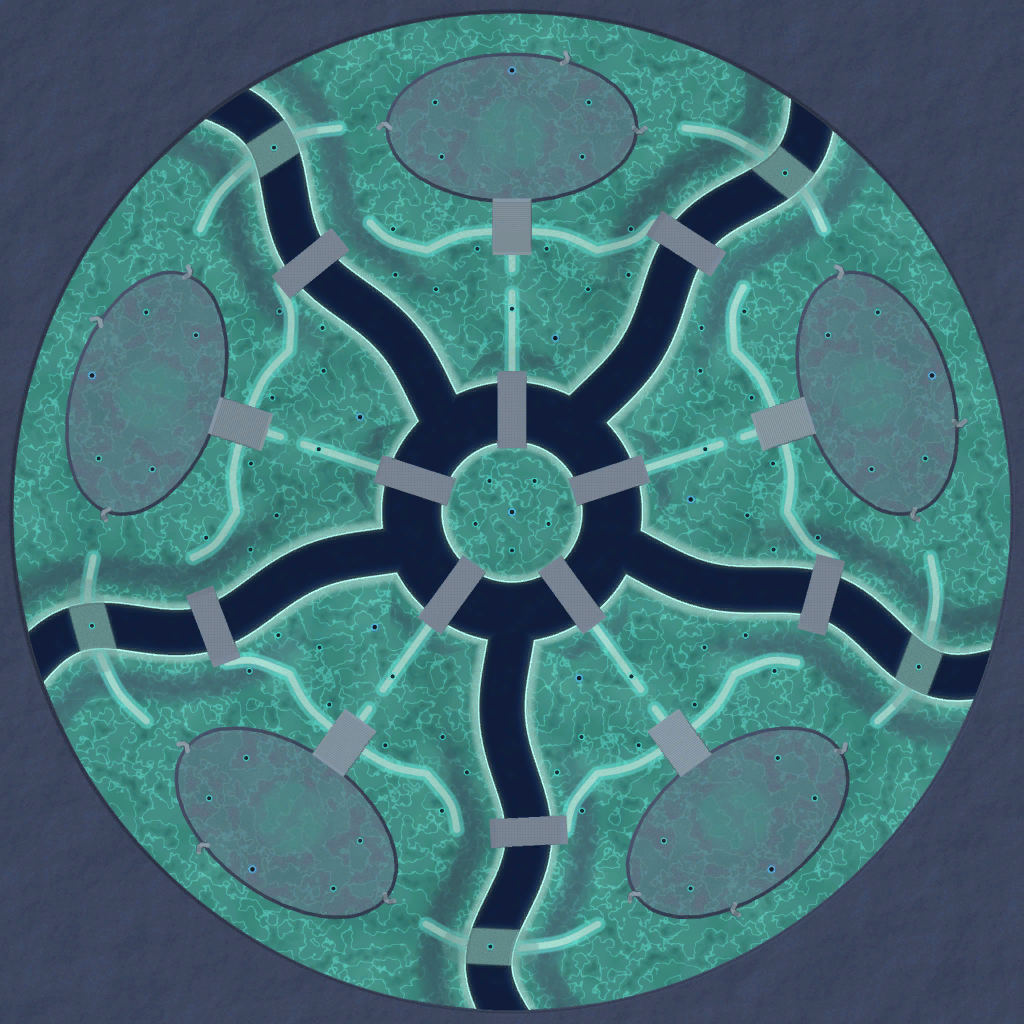
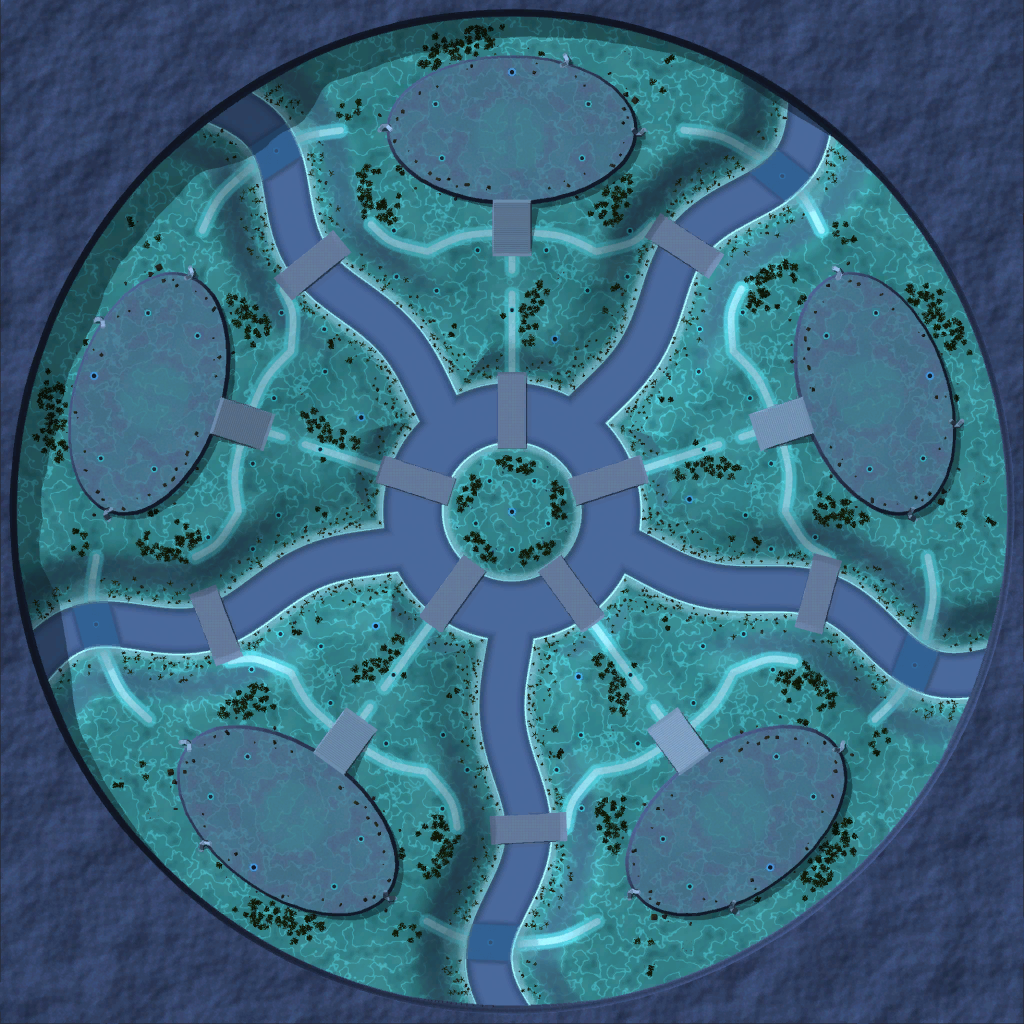
Five Rivers and the king maps: minimaps and lobby pictures from a straight-down 3D render
Each map's minimap is now the map seen from above in 3D, heights and features
included, as Starfall Marsh's is (render3d, Starfall minimap/setminimap, pack,
install), with the camera at 5.08 map-widths and an 8192 render: at 1.27 the
low ground and lakes at these maps' high edges let the background show (up to
12 px in 1024 on Corner Fortresses). Each archive still differs from its release
only in set.lua and the SMF's minimap bytes; the checks are byte-identical.
Notes and PLAN.md step 48 say so. Not yet republished.

diff --git a/PLAN.md b/PLAN.md
@@ -34,7 +34,7 @@ Test map: `acidicquarry_5.17.sd7`. **Never modify this file.** All work happens 
 | 21. Ramp tool | ✅ Done 2026-10-15 | 181/181 tests pass (with who-can-climb: BAR's movement classes and the engine's slope rule, checked against slope-map cells of built ramps, including where a ramp meets the ground); a ramp is a straight slope between its two heights (exact well inside it), every vertex beyond its edge is untouched, edge vertices lie between the old ground and the ramp; a ramp at 30° runs along its own axis; auto heights are the ground at the ends; the auto edge grows with the height step; the texture and splat map at each end match the ground beyond it, nothing past the fill's feather changes, and without fill only the heights change; bad ramps are refused; it works on the synthetic map without a splat map; undo is exact and it replays from the journal; editor self-test 121/121 (place, stretch by an end handle, widen by the side handle, move, turn with E, a cut-off drag changes nothing, the heights follow the ground, Apply ramp is one step halfway down at its middle, undo removes it, another tool hides it) |
 | 22. Passability in the 3D view | ✅ Done 2026-10-15 | 187/187 tests pass; hovercraft, vehicles and bots: every square agrees with the engine's rule (hovers on water whatever the slope; 33°, 27°, 54°; land units stop 20 deep); the sea-level preview and edits update it; the 3D tint is exact; editor self-test 126/126 |
 | 23. Ramp look: rock to dirt, rough sides | ✅ Done 2026-10-15 | 192/192 tests pass; rough sides stay between the old ground and the ramp with smooth ends; rock and dirt colours from the map's own cliffs and banks (only colour taken, the ground's own detail kept); the same op gives the same bytes; undo exact; editor self-test 130/130 |
-| 48. Feature headings fixed on Five Rivers and the three king maps | ✅ Done 2026-10-23, not yet on the releases | Step 47's test map showed that MapTool's `item-add` heading is in engine units (65536 a turn, 0 facing south), but Five Rivers' and the king maps' converters (`Place.Ops`) passed degrees. So on all four released maps every feature faces within 2° of south: ruins line up, trucks stand across the roads, and the turned parts' copies aren't turned. The converters' degrees also run the other way from the engine's: clockwise from north, as `Design.Turn` turns the parts and a road's bearing is worked out, where the engine's run from south towards east. So both converters now write `round((180 − degrees) × 65536 / 360)`, wrapped to 0-65535 (`Place.Heading`: MapEditSession.AddItem's rounding, after turning the frame round). The units alone would have turned each part's copies the wrong way and left diagonal roads' trucks across them. A render then showed that Industrial Revolution's truck models are long along x, not z, so Corner Fortresses' trucks are turned a quarter more than their road. All four rebuilt (Five Rivers 107 s, the king maps about 50-70 s each, plus MapTool's edit): each archive differs from its release only in `mapconfig/featureplacer/set.lua` (`MapTool compare`); each `run.txt` is the same line for line but for the headings; every copy faces its original turned with its part (within a unit); the facings spread evenly (Five Rivers 618/637/629/631 south/east/north/west, Star Fort 166/167/167/165, Edge Keeps 633 and Corner Fortresses 214 each way). The checks come out byte for byte as before: 62, 41, 30 and 29, all passed. The king maps' checks take each blocking feature's footprint as a square, the same whichever way it faces, so how BAR turns a wreck's real footprint is still to try in game. `info.txt`, `metal.txt` and the lobby pictures are unchanged; the pictures with features in them were drawn again with their first cameras, plus Corner Fortresses' `3d_trucks.png` (trucks along a north-south road that they stood across before). Each map's `CHECKLIST.md` and `release_notes.md`, both `RELEASE.md` files (the king maps' no longer claims that a rebuild of Star Fort matches its release byte for byte) and both converter READMEs say so. Not yet on the releases: `five_rivers.cmd publish` and `king_maps.cmd publish <map>` replace the files there, at your go-ahead. Not tried in BAR |
+| 48. Feature headings fixed on Five Rivers and the three king maps | ✅ Done 2026-10-23, not yet on the releases | Step 47's test map showed that MapTool's `item-add` heading is in engine units (65536 a turn, 0 facing south), but Five Rivers' and the king maps' converters (`Place.Ops`) passed degrees. So on all four released maps every feature faces within 2° of south: ruins line up, trucks stand across the roads, and the turned parts' copies aren't turned. The converters' degrees also run the other way from the engine's: clockwise from north, as `Design.Turn` turns the parts and a road's bearing is worked out, where the engine's run from south towards east. So both converters now write `round((180 − degrees) × 65536 / 360)`, wrapped to 0-65535 (`Place.Heading`: MapEditSession.AddItem's rounding, after turning the frame round). The units alone would have turned each part's copies the wrong way and left diagonal roads' trucks across them. A render then showed that Industrial Revolution's truck models are long along x, not z, so Corner Fortresses' trucks are turned a quarter more than their road. All four rebuilt (Five Rivers 107 s, the king maps about 50-70 s each, plus MapTool's edit): each archive differs from its release only in `mapconfig/featureplacer/set.lua` and, after the minimap below, the SMF's minimap bytes (`MapTool compare`, and the SMFs byte by byte); each `run.txt` is the same line for line but for the headings; every copy faces its original turned with its part (within a unit); the facings spread evenly (Five Rivers 618/637/629/631 south/east/north/west, Star Fort 166/167/167/165, Edge Keeps 633 and Corner Fortresses 214 each way). The checks come out byte for byte as before: 62, 41, 30 and 29, all passed. The king maps' checks take each blocking feature's footprint as a square, the same whichever way it faces, so how BAR turns a wreck's real footprint is still to try in game. `info.txt` and `metal.txt` are unchanged; the pictures with features in them were drawn again with their first cameras, plus Corner Fortresses' `3d_trucks.png` (trucks along a north-south road that they stood across before). Then, at your new requirement for every release, each map's minimap (and the lobby picture `MapTool install` draws from it) became the map seen straight down in 3D, with heights and features. It's made as Starfall Marsh's is, but with the camera four times as far up (5.08 map-widths, an 8192 render). At Starfall's 1.27, ground lower than these maps' high edges was drawn inward of them, and the background showed along the edges: up to 5 pixels in 1024 on Edge Keeps and 12 on Corner Fortresses. Now there's at most a hairline, and the checks still come out byte for byte. Each map's `CHECKLIST.md` and `release_notes.md`, both `RELEASE.md` files (the king maps' no longer claims that a rebuild of Star Fort matches its release byte for byte) and both converter READMEs say so. Not yet on the releases: `five_rivers.cmd publish` and `king_maps.cmd publish <map>` replace the files there, at your go-ahead. Not tried in BAR |
 | 47. Starfall Marsh: a 2v2 crash-site map, its ship and wreckage modelled here | ✅ Done 2026-10-23, released | At your request ("a 2v2 map that is a giant space shit crashed into the jungle, a huge pushed up creator dirt mound where the front end is buried and lost, the back end mostly intack but witch wrechage spread aross the map … 4 mex per starting area and a few near the wreackage … jungle vibes cross a marsh … build and color detailed feature component … style them like transformers space craft"). `out/step47-starfall-marsh/`: 16 × 16, north against south, mirrored across the middle line where the ship lies. A new converter (`converter/`) makes the terrain, texture, detail maps and sky and, for the first time, the map's own 3D models: a mesh builder on MapCore's S3O writer (every face tiled so atlas cells repeat without wrapping; moss on faces turned up, earth below a dirt line, plants not counted in the footprint) and one painted 2048 atlas (gunmetal plating, faded crimson armour with brass chevrons, brass trim, scorched metal, vents, windows, engine bells, girders, cyan seams through the glow channel, an original crest, moss, earth, vines, reeds; no franchise marks). Proved first on a flat test map (a test block with an arrow, the atlas on a board): textures the right way up, scale, and what a heading means. That showed MapTool's `item-add` heading is in engine units (65536 a turn), not degrees: the four released maps' converters passed degrees, so their features are all turned at most 2° (fixed in step 48). The ship: engines (six bells, two pods, fins), aft hull with its bridge tower and crest, two torn ends (decks, ribs, cables, the reactor's glow), the fore hull pitched nose-down into the mound, the prow blade on its crest: indestructible, walling the halves apart, overgrown with vines, ferns and saplings. 254 wreckage pieces in 15 kinds (each with a mirror-image twin for the south), heaviest at the crash site, small scraps near the bases, 7,190 metal a team to reclaim. Terrain: a jungle floor, the flooded furrow (wadeable) with berms, marsh streams, ragged pools and puddled mud, and a 520-high mound of pushed-up dirt (a steep west face for bots, gullies, a graded track for vehicles, dirt spilled over the buried nose). Metal: four spots at each start (2.0) and six on the wreck (2.8); two geothermal vents. Jungle: oaks, kapok, banyans, palms, mangroves, reeds, ferns from All That Simmers (its unused banyan and mangrove models defined here); 6,076 features. 14 checks on the built map's heights round every blocking feature's footprint pass (all starts and spots reached; each of the three lanes alone lets vehicles and bots cross; with all three shut the ship walls the halves off; the five hull sections, which butt together uncapped, all sit at one height on a dead-level floor; spots clear and level; halves alike to 0.00). Built in 46 s plus MapTool's edit (about a minute). Not tried in BAR. `CHECKLIST.md` has the layout, the models, the checks and what was made better on the way. Released at your go-ahead as `starfall-marsh-1.0` here and in BarMaps ([download](https://github.com/danielkopko/BarMaps/releases/download/starfall-marsh-1.0/starfall_marsh_1.0.sd7)) by `starfall_marsh.cmd publish`, with BarMaps' README section and lobby picture |
 | 46. King maps: Star Fort (K6), Edge Keeps (K4) and Corner Fortresses (K3) built and released | ✅ Done 2026-10-22 | At your request ("now run the end to end process for K6 and K4 and K3, do 1 at a time, and push as a release to the BarMaps repo for each map … no doors for the moment, walls are terrain, kings areas elivated with both ramp for full access and size zig zags for bot access. add geo vents and rocks/tree features making maps look like real locations"). The three drawings reworked first (`out/koth-maps/make_kings_maps.py`): no doors, ramparts as terrain, every king's ground raised, a ramp and bots-only zigzags for each king, geothermal vents. One converter for all three, grown from Five Rivers' (`out/step46-king-maps/converter/`, `KingMaps build` and `check`): the parts are turned, not mirrored, with each part's noise blended into the next near the lines between them, so they're alike without a seam; ramparts 90 high and flat-topped, towers 110, 12° ramps, 38° zigzag flights cut through the ramparts, bots-only passes over ridges (the ground lowered along the pass, at most 60 above the higher side and 38° anywhere: a straight climb up the cliff face failed the checks first); a look for each planet (Dune, Heath, Forge) painting the ground and choosing plants, rocks and props. **Star Fort 1.0** (`out/step46-king-maps/star_fort/`): 28 × 28, five kings on the bastions of one star fort round a spire, 20 players; 41 access checks pass on the built map's own heights, the fifths match (median 0.00, 99% within 1.2); 70 metal spots (27.2 metal/s a team), 10 vents, 665 palms, ferns, rocks and wrecks; built in 54 s plus MapTool's edit. Released as `star-fort-1.0` here and in BarMaps ([download](https://github.com/danielkopko/BarMaps/releases/download/star-fort-1.0/star_fort_1.0.sd7)), with BarMaps' README section and lobby picture. **Edge Keeps 1.0** (`out/step46-king-maps/edge_keeps/`): 24 × 24, four kings on cliff keeps at the middle of each edge, a loch with an isle in the middle, 16 players. Its first build passed every check but looked flat and plain (blotchy heather, pines only in three thin rows), so the Heath look was redone before release: broad rolling hills (±40, roads and bases follow them; `Look.Swell`, never dipping into puddles), heather on the rises and moor grass in the hollows, small peat hags, granite-sett causeways, pinewoods, birch copses, tors on the crests, scree and boulders. 30 access checks pass on the built map's own heights, the quarters match (median 0.00, 99% within 0.2); 56 metal spots (28.4 metal/s a team), 9 vents, 2,532 trees, bracken, rocks and cairns. Released as `edge-keeps-1.0` here and in BarMaps ([download](https://github.com/danielkopko/BarMaps/releases/download/edge-keeps-1.0/edge_keeps_1.0.sd7)), with BarMaps' README section and lobby picture. **Corner Fortresses 1.0** (`out/step46-king-maps/corner_fortresses/`): 24 × 24, four kings in raised corner fortresses behind ramparts, all twelve peasants round the market in the middle, acid lakes between, 16 players. Its first build passed every check but looked wrong: Industrial Revolution's pipe models are runs up to 2000 long and 250 tall and looped over the ramparts, the ground was one tiled floor, the roads black strokes, the market a red checkerboard, the mushrooms 8 across. Redone before release: no pipes or mushrooms; an estate's paved lots between waste ground gone to weeds, worn asphalt, a brick market; ruined works of BAR's building wrecks (factories and moho mines with storage tanks and metal makers) with rubble, container yards, trucks, weeds. 29 access checks pass on the built map's own heights, the quarters match exactly; 64 metal spots (32.8 metal/s a team), 9 vents, 856 features, about 9,100 metal a team to reclaim (noted as a first guess, with the acid's damage). Released as `corner-fortresses-1.0` here and in BarMaps ([download](https://github.com/danielkopko/BarMaps/releases/download/corner-fortresses-1.0/corner_fortresses_1.0.sd7)), with BarMaps' README section and lobby picture. The drawings' planet notes for K3 and K4 (`planets.py`) were brought into line with what was built. Afterwards the access checks were extended to the features (`KingMaps check … run.txt`: each blocking feature's footprint and 8 more round it, in the checks that units get through) and re-run on all three: all pass, the features blocking 0.6%, 1.9% and 2.5% of the ground; and a rebuild of Star Fort with the final converter gave the released files byte for byte (until step 48's headings fix, which changes `set.lua`). `out/step46-king-maps/RELEASE.md` records the conversions and releases. `out/step46-king-maps/king_maps.cmd publish <map>` commits, pushes and releases any of the three; `install <map>` copies one into BAR. Not tried in BAR |
 | 45. Five Rivers released: GitHub releases here and in BarMaps | ✅ Done 2026-10-22 | At your request ("split the map and provide a simple script to run to repackage it and push to git", then "make it so i can grab it all in 1 go without having to grab the entire repository", then "release to the BarMaps repo as well"). The 112 MB `.sd7` is over GitHub's 100 MB a file, so it was first committed in three parts (45, 45, 16.6 MB) with its SHA-256 and a join script (split and join checked byte for byte; 09d9e0e), then replaced by releases (8659a32): `five-rivers-1.0` in this repository (private) and in danielkopko/BarMaps (public: [download](https://github.com/danielkopko/BarMaps/releases/download/five-rivers-1.0/five_rivers_1.0.sd7)), each with the map and its lobby picture and `release_notes.md`; BarMaps' README has a Five Rivers section beside Simmering Ravine's and `LuaMenu/Images/Minimaps/Five_Rivers_1.0.jpg`. `out/step44-five-rivers/five_rivers.cmd publish` commits and pushes the notes and puts the map on both releases (replacing their files when they exist); `install` copies it into BAR. Pushing as danielkopko: on this PC git and the GitHub CLI default to the work account, which can't see the private repository, so the script takes danielkopko's sign-in from the CLI for that run only. `out/step44-five-rivers/RELEASE.md` records the conversion and the release, and how to release a new version |

diff --git a/out/step46-king-maps/RELEASE.md b/out/step46-king-maps/RELEASE.md
@@ -37,7 +37,7 @@ The steps are in `converter/README.md`. In short, for each map:
    - MapTool's `run.txt`.
 3. `MapTool edit … @run.txt` adds the metal, vents and features.
 4. `KingMaps check <geometry> <map> <run.txt>` runs the access checks again. It reads the built map's own heights, and goes round each blocking feature's footprint in the checks that units get through. It also compares the parts.
-5. `MapTool install` into a scratch maps folder makes the lobby picture.
+5. `MapTool install` into a scratch maps folder makes the lobby picture. Since 2026-10-23 the minimap it's drawn from is first made from a straight-down 3D render (each map's `CHECKLIST.md`, *The minimap and lobby picture*).
 6. The pictures (`MapTool render` and `render3d`), `info.txt` and `metal.txt` are written beside the map.
 
 All three passed their checks first time (41, 30 and 29). Passing them wasn't enough, though: the renders were looked at too, and two of the three were redone before release.
@@ -49,7 +49,7 @@ All three passed their checks first time (41, 30 and 29). Passing them wasn't en
   - The Forge look now has an estate's paved lots on waste ground, worn asphalt and brick paving. BAR's building wrecks make ruined works, and the pipes and mushrooms are gone.
 - **Star Fort:** the first pass over each ridge climbed the cliff face, so bots couldn't cross. The pass is now the ground lowered along its line, at most 60 above the realms and 38° anywhere.
 
-The later changes (the swell, the new Heath and Forge looks, a feature's room by kind) left Star Fort's build as it was released: a rebuild after them gave the same SMF, SMT, detail maps, `mapinfo.lua` and `run.txt`, byte for byte. That stopped being true with the headings fix (below). A rebuild now differs from the release in `run.txt`'s headings, and so in the archive's `mapconfig/featureplacer/set.lua`, and in nothing else.
+The later changes (the swell, the new Heath and Forge looks, a feature's room by kind) left Star Fort's build as it was released: a rebuild after them gave the same SMF, SMT, detail maps, `mapinfo.lua` and `run.txt`, byte for byte. That stopped being true with the headings fix (below). A rebuild now differs from the release in `run.txt`'s headings, and so in the archive's `mapconfig/featureplacer/set.lua`, and in nothing else. The 3D minimap, made after the build, then changes the SMF's minimap bytes.
 
 After all three were out, the checks were extended to the features. Re-run on all three maps, every check passed: the features block 0.6%, 1.9% and 2.5% of the ground, and none cuts off a ramp, zigzag, pass or start.
 
@@ -59,9 +59,10 @@ After all three were out, the checks were extended to the features. Re-run on al
 
 - **Units and frame:** the converter's degrees run clockwise from north, the way `Design.Turn` turns the parts and a road's bearing is worked out. The engine's run the other way from south (16384 is east). So `Place.Heading` writes `round((180 − degrees) × 65536 / 360)`, wrapped to 0-65535: MapEditSession.AddItem's rounding, after turning the frame round. The units alone would have left each part's copies turned the wrong way and diagonal roads' trucks across them.
 - **Trucks:** the minitrucks' models are long along x, not z, so each is turned a quarter more than its road.
-- **Rebuilt, all three:** each archive differs from its release only in `mapconfig/featureplacer/set.lua` (`MapTool compare`), and each `run.txt` is the same line for line, but for the headings. Every copy faces its original turned with its part (to within a unit for Star Fort's fifths, exactly for the quarters). The facings spread evenly.
-- **Unchanged:** `check.txt` (41, 30 and 29 checks, all passed), `info.txt`, `metal.txt` and the lobby pictures. The checks take each blocking feature's footprint as a square round it, the same whichever way it faces. How BAR turns a wreck's real footprint with its facing is still to try in game.
+- **Rebuilt, all three:** each archive differs from its release only in `mapconfig/featureplacer/set.lua` and in the SMF's minimap bytes (`MapTool compare`, and the SMF compared byte by byte), and each `run.txt` is the same line for line, but for the headings. Every copy faces its original turned with its part (to within a unit for Star Fort's fifths, exactly for the quarters). The facings spread evenly.
+- **Unchanged:** `check.txt` (41, 30 and 29 checks, all passed), `info.txt` and `metal.txt`. The checks take each blocking feature's footprint as a square round it, the same whichever way it faces. How BAR turns a wreck's real footprint with its facing is still to try in game.
 - **Pictures:** the 3D pictures with features in them were drawn again with their first cameras. Corner Fortresses has a new one, `3d_trucks.png`.
+- **Minimaps and lobby pictures:** at your new requirement for every release, each map's minimap is now the map seen straight down in 3D, with heights and features. The lobby picture follows it. They're made as Starfall Marsh's are, with the camera four times as far up (5.08 map-widths, an 8192 render), so the edges' high ground and lakes leave no background showing (each map's `CHECKLIST.md`, *The minimap and lobby picture*).
 
 The maps beside the notes are the rebuilt ones. The releases still have the first builds until `king_maps.cmd publish <map>` replaces their files.
 

diff --git a/out/step46-king-maps/corner_fortresses/CHECKLIST.md b/out/step46-king-maps/corner_fortresses/CHECKLIST.md
@@ -6,7 +6,7 @@
 
 **Download:** one file, [corner_fortresses_1.0.sd7](https://github.com/danielkopko/BarMaps/releases/download/corner-fortresses-1.0/corner_fortresses_1.0.sd7), from the public BarMaps release [corner-fortresses-1.0](https://github.com/danielkopko/BarMaps/releases/tag/corner-fortresses-1.0), with its lobby picture `Corner_Fortresses_1.0.jpg`. The same files are on [this repository's release](https://github.com/danielkopko/beyondallreasonmapeditor/releases/tag/corner-fortresses-1.0) (signed in as danielkopko). After rebuilding, `../king_maps.cmd publish corner_fortresses -Message "..."` pushes the notes and replaces both releases' files. `../king_maps.cmd install corner_fortresses` copies the map into BAR.
 
-**Rebuilt 2026-10-23, not yet on the releases:** the map beside this file has its features turned the way the converter meant (*Headings*, below). The releases still have the first build, in which every feature faces south. `../king_maps.cmd publish corner_fortresses` replaces them.
+**Rebuilt 2026-10-23, not yet on the releases:** the map beside this file has its features turned the way the converter meant (*Headings*, below), and a minimap and lobby picture seen from above in 3D (*The minimap and lobby picture*). The releases still have the first build, in which every feature faces south and the minimap is the flat texture. `../king_maps.cmd publish corner_fortresses` replaces them.
 
 ## The layout
 
@@ -76,9 +76,17 @@ Also checked:
   - The first build wrote each feature's heading in degrees. MapTool's `item-add` takes the engine's units: 65536 to a turn, with 0 facing south. So all 856 features faced within 2° of south. The ruins all lined up, the trucks stood across any road that didn't run east-west, and the other quarters' copies weren't turned.
   - The converter now writes `round((180 − degrees) × 65536 / 360)`, wrapped to 0-65535. Its degrees run clockwise from north, the way it turns the parts.
   - The trucks' models are long along x, not z (the minitrucks 67 × 57, the crane truck 138 × 78). So a truck parked by a road is turned a quarter more than the road, to lie along it. `3d_trucks.png` shows a north-south road: before the fix, its trucks stood across it.
-  - The rebuild differs from the release only in `mapconfig/featureplacer/set.lua` (`MapTool compare`). Its `run.txt` is the same line for line, but for the headings. Each copy faces its original turned exactly a quarter with its part, so the facings are even: 214 each way.
+  - The rebuild differs from the release only in `mapconfig/featureplacer/set.lua` and in the SMF's minimap bytes (`MapTool compare`, and the SMF compared byte by byte). Its `run.txt` is the same line for line, but for the headings. Each copy faces its original turned exactly a quarter with its part, so the facings are even: 214 each way.
   - The 29 checks come out exactly as before (`check.txt` is unchanged). They take each blocking feature's footprint as a square round it, whichever way it faces (128 across for a factory wreck). How BAR turns a wreck's real footprint with its facing is still to try in game.
-  - `info.txt`, `metal.txt` and the lobby picture are the same as before. The 3D pictures were drawn again with the same cameras.
+  - `info.txt` and `metal.txt` are the same as before. The 3D pictures were drawn again with the same cameras.
+
+## The minimap and lobby picture
+
+Since 2026-10-23, as for every map now, the minimap is the map seen straight down in 3D, with heights, light and features, not the flat texture. That covers the in-game minimap and the lobby's picture, which `MapTool install` draws from it. It's made as Starfall Marsh's is:
+1. `MapTool render3d corner_fortresses_1.0.sd7 top.png --size 8192x8192 --camera 6144,6144,0,89.9,62423 --models`. The camera is 5.08 map-widths up, four times Starfall Marsh's 1.27, with a render four times as wide, so the map still covers about 1950 pixels of it. At 1.27 widths, ground lower than the map's high edges was drawn inward of them, and the render's background showed through along the edges. Edge Keeps had a sliver of up to 5 pixels in 1024 and Corner Fortresses up to 12, round its edge lakes. Four times as far away leaves at most a hairline, and features and high ground sit a quarter as far out of place.
+2. `Starfall minimap top.png minimap.png 1024` (`out/step47-starfall-marsh/converter`) cuts the map out of the render and scales it.
+3. `Starfall setminimap <extracted map> minimap.png` puts it into the SMF; `MapTool pack` packs the map again.
+4. `MapTool install` into a scratch maps folder gives the lobby picture (`bar-data/`).
 
 ## Pictures
 

diff --git a/out/step44-five-rivers/CHECKLIST.md b/out/step44-five-rivers/CHECKLIST.md
@@ -6,7 +6,7 @@
 
 **Download:** one file, [five_rivers_1.0.sd7](https://github.com/danielkopko/BarMaps/releases/download/five-rivers-1.0/five_rivers_1.0.sd7), from the public BarMaps release [five-rivers-1.0](https://github.com/danielkopko/BarMaps/releases/tag/five-rivers-1.0), with its lobby picture `Five_Rivers_1.0.jpg`; the same files are on [this repository's release](https://github.com/danielkopko/beyondallreasonmapeditor/releases/tag/five-rivers-1.0) (signed in as danielkopko). After rebuilding the map, `five_rivers.cmd publish -Message "..."` pushes the notes and replaces both releases' files; `five_rivers.cmd install` copies the map beside it into BAR. `RELEASE.md` has how it was converted and released.
 
-**Rebuilt 2026-10-23, not yet on the releases:** the map beside this file has its features turned the way the converter meant (*Headings*, below). The releases still have the first build, in which every feature faces south. `five_rivers.cmd publish` replaces them.
+**Rebuilt 2026-10-23, not yet on the releases:** the map beside this file has its features turned the way the converter meant (*Headings*, below), and a minimap and lobby picture seen from above in 3D (*The minimap and lobby picture*). The releases still have the first build, in which every feature faces south and the minimap is the flat texture. `five_rivers.cmd publish` replaces them.
 
 Install by hand: copy `five_rivers_1.0.sd7` into BAR's `maps` folder, and `bar-data/LuaMenu` (beside this file) into BAR's data folder (the folder that holds `maps`, usually `%LOCALAPPDATA%\Programs\Beyond-All-Reason\data`) for the lobby picture; or `MapTool install five_rivers_1.0.sd7` on a machine with BAR.
 
@@ -54,8 +54,16 @@ Also checked:
 - **Headings (fixed after release, 2026-10-23):**
   - The first build wrote each feature's heading in degrees. MapTool's `item-add` takes the engine's units: 65536 to a turn, with 0 facing south. So all 2,515 features faced within 2° of south, and the other fifths' copies weren't turned. Step 47's test map showed it.
   - The converter now converts its headings (degrees clockwise from north, the way it turns the fifths) to the engine's units: `round((180 − degrees) × 65536 / 360)`, wrapped to 0-65535.
-  - The rebuild differs from the release only in `mapconfig/featureplacer/set.lua` (`MapTool compare`). Its `run.txt` is the same line for line, but for the headings. Each copy faces its original turned with its fifth, to within a unit. The facings spread evenly: 618 south, 637 east, 629 north, 631 west.
-  - `check.txt`, `info.txt`, `metal.txt` and the lobby picture are the same as before. The pictures with features in them were drawn again.
+  - The rebuild differs from the release only in `mapconfig/featureplacer/set.lua` and in the SMF's minimap bytes (`MapTool compare`, and the SMF compared byte by byte). Its `run.txt` is the same line for line, but for the headings. Each copy faces its original turned with its fifth, to within a unit. The facings spread evenly: 618 south, 637 east, 629 north, 631 west.
+  - `check.txt`, `info.txt` and `metal.txt` are the same as before. The pictures with features in them were drawn again.
+
+## The minimap and lobby picture
+
+Since 2026-10-23, as for every map now, the minimap is the map seen straight down in 3D, with heights, light and features, not the flat texture. That covers the in-game minimap and the lobby's picture, which `MapTool install` draws from it. It's made as Starfall Marsh's is:
+1. `MapTool render3d five_rivers_1.0.sd7 top.png --size 8192x8192 --camera 7168,7168,0,89.9,72826 --models`. The camera is 5.08 map-widths up, four times Starfall Marsh's 1.27, with a render four times as wide, so the map still covers about 1950 pixels of it. At 1.27 widths, ground lower than the map's high edges was drawn inward of them, and the render's background showed through along the edges. Edge Keeps had a sliver of up to 5 pixels in 1024 and Corner Fortresses up to 12, round its edge lakes. Four times as far away leaves at most a hairline, and features and high ground sit a quarter as far out of place.
+2. `Starfall minimap top.png minimap.png 1024` (`out/step47-starfall-marsh/converter`) cuts the map out of the render and scales it.
+3. `Starfall setminimap <extracted map> minimap.png` puts it into the SMF; `MapTool pack` packs the map again.
+4. `MapTool install` into a scratch maps folder gives the lobby picture (`bar-data/`).
 
 ## Pictures
 

diff --git a/out/step46-king-maps/star_fort/CHECKLIST.md b/out/step46-king-maps/star_fort/CHECKLIST.md
@@ -6,7 +6,7 @@
 
 **Download:** one file, [star_fort_1.0.sd7](https://github.com/danielkopko/BarMaps/releases/download/star-fort-1.0/star_fort_1.0.sd7), from the public BarMaps release [star-fort-1.0](https://github.com/danielkopko/BarMaps/releases/tag/star-fort-1.0), with its lobby picture `Star_Fort_1.0.jpg`. The same files are on [this repository's release](https://github.com/danielkopko/beyondallreasonmapeditor/releases/tag/star-fort-1.0) (signed in as danielkopko). After rebuilding the map, `../king_maps.cmd publish star_fort -Message "..."` pushes the notes and replaces both releases' files. `../king_maps.cmd install star_fort` copies the map into BAR.
 
-**Rebuilt 2026-10-23, not yet on the releases:** the map beside this file has its features turned the way the converter meant (*Headings*, below). The releases still have the first build, in which every feature faces south. `../king_maps.cmd publish star_fort` replaces them.
+**Rebuilt 2026-10-23, not yet on the releases:** the map beside this file has its features turned the way the converter meant (*Headings*, below), and a minimap and lobby picture seen from above in 3D (*The minimap and lobby picture*). The releases still have the first build, in which every feature faces south and the minimap is the flat texture. `../king_maps.cmd publish star_fort` replaces them.
 
 ## The layout
 
@@ -67,9 +67,17 @@ Also checked:
 - **Headings (fixed after release, 2026-10-23):**
   - The first build wrote each feature's heading in degrees. MapTool's `item-add` takes the engine's units: 65536 to a turn, with 0 facing south. So all 665 features faced within 2° of south, and the other fifths' copies weren't turned.
   - The converter now writes `round((180 − degrees) × 65536 / 360)`, wrapped to 0-65535. Its degrees run clockwise from north, the way it turns the parts.
-  - The rebuild differs from the release only in `mapconfig/featureplacer/set.lua` (`MapTool compare`). Its `run.txt` is the same line for line, but for the headings. Each copy faces its original turned with its fifth, to within a unit. The facings spread evenly: 166 south, 167 east, 167 north, 165 west.
+  - The rebuild differs from the release only in `mapconfig/featureplacer/set.lua` and in the SMF's minimap bytes (`MapTool compare`, and the SMF compared byte by byte). Its `run.txt` is the same line for line, but for the headings. Each copy faces its original turned with its fifth, to within a unit. The facings spread evenly: 166 south, 167 east, 167 north, 165 west.
   - The 41 checks come out exactly as before (`check.txt` is unchanged). They take each blocking feature's footprint as a square round it, whichever way it faces. How BAR turns a wreck's real footprint with its facing is still to try in game.
-  - `info.txt`, `metal.txt` and the lobby picture are the same as before. The 3D pictures were drawn again with the same cameras.
+  - `info.txt` and `metal.txt` are the same as before. The 3D pictures were drawn again with the same cameras.
+
+## The minimap and lobby picture
+
+Since 2026-10-23, as for every map now, the minimap is the map seen straight down in 3D, with heights, light and features, not the flat texture. That covers the in-game minimap and the lobby's picture, which `MapTool install` draws from it. It's made as Starfall Marsh's is:
+1. `MapTool render3d star_fort_1.0.sd7 top.png --size 8192x8192 --camera 7168,7168,0,89.9,72826 --models`. The camera is 5.08 map-widths up, four times Starfall Marsh's 1.27, with a render four times as wide, so the map still covers about 1950 pixels of it. At 1.27 widths, ground lower than the map's high edges was drawn inward of them, and the render's background showed through along the edges. Edge Keeps had a sliver of up to 5 pixels in 1024 and Corner Fortresses up to 12, round its edge lakes. Four times as far away leaves at most a hairline, and features and high ground sit a quarter as far out of place.
+2. `Starfall minimap top.png minimap.png 1024` (`out/step47-starfall-marsh/converter`) cuts the map out of the render and scales it.
+3. `Starfall setminimap <extracted map> minimap.png` puts it into the SMF; `MapTool pack` packs the map again.
+4. `MapTool install` into a scratch maps folder gives the lobby picture (`bar-data/`).
 
 ## Pictures
 

diff --git a/out/step46-king-maps/edge_keeps/CHECKLIST.md b/out/step46-king-maps/edge_keeps/CHECKLIST.md
@@ -6,7 +6,7 @@
 
 **Download:** one file, [edge_keeps_1.0.sd7](https://github.com/danielkopko/BarMaps/releases/download/edge-keeps-1.0/edge_keeps_1.0.sd7), from the public BarMaps release [edge-keeps-1.0](https://github.com/danielkopko/BarMaps/releases/tag/edge-keeps-1.0), with its lobby picture `Edge_Keeps_1.0.jpg`. The same files are on [this repository's release](https://github.com/danielkopko/beyondallreasonmapeditor/releases/tag/edge-keeps-1.0) (signed in as danielkopko). After rebuilding, `../king_maps.cmd publish edge_keeps -Message "..."` pushes the notes and replaces both releases' files. `../king_maps.cmd install edge_keeps` copies the map into BAR.
 
-**Rebuilt 2026-10-23, not yet on the releases:** the map beside this file has its features turned the way the converter meant (*Headings*, below). The releases still have the first build, in which every feature faces south. `../king_maps.cmd publish edge_keeps` replaces them.
+**Rebuilt 2026-10-23, not yet on the releases:** the map beside this file has its features turned the way the converter meant (*Headings*, below), and a minimap and lobby picture seen from above in 3D (*The minimap and lobby picture*). The releases still have the first build, in which every feature faces south and the minimap is the flat texture. `../king_maps.cmd publish edge_keeps` replaces them.
 
 ## The layout
 
@@ -71,9 +71,17 @@ Also checked:
 - **Headings (fixed after release, 2026-10-23):**
   - The first build wrote each feature's heading in degrees. MapTool's `item-add` takes the engine's units: 65536 to a turn, with 0 facing south. So all 2,532 features faced within 2° of south, and the other quarters' copies weren't turned.
   - The converter now writes `round((180 − degrees) × 65536 / 360)`, wrapped to 0-65535. Its degrees run clockwise from north, the way it turns the parts.
-  - The rebuild differs from the release only in `mapconfig/featureplacer/set.lua` (`MapTool compare`). Its `run.txt` is the same line for line, but for the headings. Each copy faces its original turned exactly a quarter with its part, so the facings are even: 633 each way.
+  - The rebuild differs from the release only in `mapconfig/featureplacer/set.lua` and in the SMF's minimap bytes (`MapTool compare`, and the SMF compared byte by byte). Its `run.txt` is the same line for line, but for the headings. Each copy faces its original turned exactly a quarter with its part, so the facings are even: 633 each way.
   - The 30 checks come out exactly as before (`check.txt` is unchanged). They take each blocking feature's footprint as a square round it, whichever way it faces.
-  - `info.txt`, `metal.txt` and the lobby picture are the same as before. The 3D pictures were drawn again with the same cameras.
+  - `info.txt` and `metal.txt` are the same as before. The 3D pictures were drawn again with the same cameras.
+
+## The minimap and lobby picture
+
+Since 2026-10-23, as for every map now, the minimap is the map seen straight down in 3D, with heights, light and features, not the flat texture. That covers the in-game minimap and the lobby's picture, which `MapTool install` draws from it. It's made as Starfall Marsh's is:
+1. `MapTool render3d edge_keeps_1.0.sd7 top.png --size 8192x8192 --camera 6144,6144,0,89.9,62423 --models`. The camera is 5.08 map-widths up, four times Starfall Marsh's 1.27, with a render four times as wide, so the map still covers about 1950 pixels of it. At 1.27 widths, ground lower than the map's high edges was drawn inward of them, and the render's background showed through along the edges. Edge Keeps had a sliver of up to 5 pixels in 1024 and Corner Fortresses up to 12, round its edge lakes. Four times as far away leaves at most a hairline, and features and high ground sit a quarter as far out of place.
+2. `Starfall minimap top.png minimap.png 1024` (`out/step47-starfall-marsh/converter`) cuts the map out of the render and scales it.
+3. `Starfall setminimap <extracted map> minimap.png` puts it into the SMF; `MapTool pack` packs the map again.
+4. `MapTool install` into a scratch maps folder gives the lobby picture (`bar-data/`).
 
 ## Pictures
 

diff --git a/out/step44-five-rivers/RELEASE.md b/out/step44-five-rivers/RELEASE.md
@@ -26,7 +26,7 @@ The full steps are in `converter/README.md`; in short:
 7. **Fixed on the way:** the detail maps were first written the right way up (they must be stored upside down); MapTool's `--layer splat` and `--layer normals` renders caught it. The drawing's heights line was changed to match the build (the isle 60, not 200-230).
 8. **Pictures and reports:** `map_2d*.png`, `3d_*.png`, `info.txt`, `metal.txt`, `check.txt`; the lobby picture from `MapTool install` into a scratch maps folder (`bar-data/`).
 
-**Fixed after the release (2026-10-23): the features' headings.** `Place.Ops` wrote each heading in degrees, but MapTool's `item-add` takes the engine's units (65536 to a turn, 0 facing south). So in the released map every feature faces within 2° of south, and the other fifths' copies aren't turned. The converter now writes `round((180 − degrees) × 65536 / 360)`, wrapped to 0-65535. Its degrees run clockwise from north, as `Design.Turn` turns the fifths; the engine's run the other way from south. The rebuild differs from the release only in `mapconfig/featureplacer/set.lua`, and passes the same 62 checks (`CHECKLIST.md`, *Headings*). It goes out with `five_rivers.cmd publish`, which replaces the release's files.
+**Fixed after the release (2026-10-23): the features' headings.** `Place.Ops` wrote each heading in degrees, but MapTool's `item-add` takes the engine's units (65536 to a turn, 0 facing south). So in the released map every feature faces within 2° of south, and the other fifths' copies aren't turned. The converter now writes `round((180 − degrees) × 65536 / 360)`, wrapped to 0-65535. Its degrees run clockwise from north, as `Design.Turn` turns the fifths; the engine's run the other way from south. At the same time, at your new requirement for every release, the minimap and lobby picture became the map seen straight down in 3D, with heights and features (`CHECKLIST.md`, *The minimap and lobby picture*). The rebuild differs from the release only in `mapconfig/featureplacer/set.lua` and the SMF's minimap bytes, and passes the same 62 checks (`CHECKLIST.md`, *Headings*). It goes out with `five_rivers.cmd publish`, which replaces the release's files.
 
 ## The release
 

diff --git a/out/step46-king-maps/converter/README.md b/out/step46-king-maps/converter/README.md
@@ -15,7 +15,7 @@ How the king maps (`star_fort_1.0.sd7`, `edge_keeps_1.0.sd7`, `corner_fortresses
    - All That Simmers' own layout is left out: its SMF and SMT, its detail maps, its grass and feature list, its sunrise sky, two unused textures, and its map options.
 4. `MapTool edit <key>_1.0_stage.sd7 <key>_1.0.sd7 @run.txt`.
 5. `KingMaps check <geometry.json> <final map, extracted> <work>/run.txt`: the access checks again on the built map's own heights, the ones that units get through going round every blocking feature (its footprint and 8 more), and how alike the parts are.
-6. `MapTool install <key>_1.0.sd7 <scratch maps folder>`: the lobby picture, kept in `<key>/bar-data`.
+6. The minimap from a straight-down 3D render, features included (`<key>/CHECKLIST.md`, *The minimap and lobby picture*), then `MapTool install <key>_1.0.sd7 <scratch maps folder>`: the lobby picture, kept in `<key>/bar-data`.
 7. `king_maps.cmd publish <key>`: the map on the GitHub releases, here and in BarMaps (`../RELEASE.md`).
 
 ## The terrain (`Terrain.cs`)

diff --git a/out/step44-five-rivers/converter/README.md b/out/step44-five-rivers/converter/README.md
@@ -16,7 +16,8 @@ How `five_rivers_1.0.sd7` was made from `out/koth-maps/k7_five_rivers.svg` (the 
 4. `MapTool edit five_rivers_stage.sd7 five_rivers_1.0.sd7 @run.txt`.
 5. `FiveRivers check design/geometry.json <final map, extracted>`: the access checks again on the built map's heights, and how alike the fifths are.
 6. `MapTool render … --layer splat` and `--layer normals`: the detail maps line up with the texture (map `.dds` files are stored upside down; `Derive.cs` flips each image before writing it).
-7. `five_rivers.cmd publish`: the map on the GitHub releases, here and in BarMaps (`../RELEASE.md`).
+7. The minimap from a straight-down 3D render, features included (`../CHECKLIST.md`, *The minimap and lobby picture*), then `MapTool install` for the lobby picture.
+8. `five_rivers.cmd publish`: the map on the GitHub releases, here and in BarMaps (`../RELEASE.md`).
 
 ## Layout
 

diff --git a/out/step44-five-rivers/release_notes.md b/out/step44-five-rivers/release_notes.md
@@ -10,4 +10,4 @@
 
 Not yet tried in a game: worth checking that the night isn't too dark, that extractors go down on the ford spots (10 deep), and that your lobby takes 20 players. There are no start boxes in the map; the fixed starts go A's king, A's three peasants, then B, C, D and E clockwise.
 
-**Rebuilt 2026-10-23:** the trees, ferns, mushrooms, crystals and rocks now face every way, as they were meant to. In the first upload of this version they all faced south. If you downloaded it before then, replace your copy.
+**Rebuilt 2026-10-23:** the trees, ferns, mushrooms, crystals and rocks now face every way, as they were meant to, and the minimap and lobby picture show the map from above in 3D, heights and features included. In the first upload of this version they all faced south and the minimap was the flat texture. If you downloaded it before then, replace your copy.

diff --git a/out/step46-king-maps/corner_fortresses/release_notes.md b/out/step46-king-maps/corner_fortresses/release_notes.md
@@ -18,4 +18,4 @@
 
 **Not yet tried in a game.** The acid's damage (`water.damage` 60) and the amount of reclaim are first guesses. The map has no start boxes. The fixed starts go A's king, then A's three peasants, then B, C and D clockwise.
 
-**Rebuilt 2026-10-23:** the wrecks, rubble, crates and trucks (parked along the roads) now face every way, as they were meant to. In the first upload of this version they all faced south. If you downloaded it before then, replace your copy.
+**Rebuilt 2026-10-23:** the wrecks, rubble, crates and trucks (parked along the roads) now face every way, as they were meant to, and the minimap and lobby picture show the map from above in 3D, heights and features included. In the first upload of this version they all faced south and the minimap was the flat texture. If you downloaded it before then, replace your copy.

diff --git a/out/step46-king-maps/star_fort/release_notes.md b/out/step46-king-maps/star_fort/release_notes.md
@@ -17,4 +17,4 @@
 
 **Not yet tried in a game.** Check that your lobby takes 20 players. The map has no start boxes. The fixed starts go A's king, then A's three peasants, then B, C, D and E clockwise, with A north.
 
-**Rebuilt 2026-10-23:** the palms, ferns, rocks and wrecks now face every way, as they were meant to. In the first upload of this version they all faced south. If you downloaded it before then, replace your copy.
+**Rebuilt 2026-10-23:** the palms, ferns, rocks and wrecks now face every way, as they were meant to, and the minimap and lobby picture show the map from above in 3D, heights and features included. In the first upload of this version they all faced south and the minimap was the flat texture. If you downloaded it before then, replace your copy.
